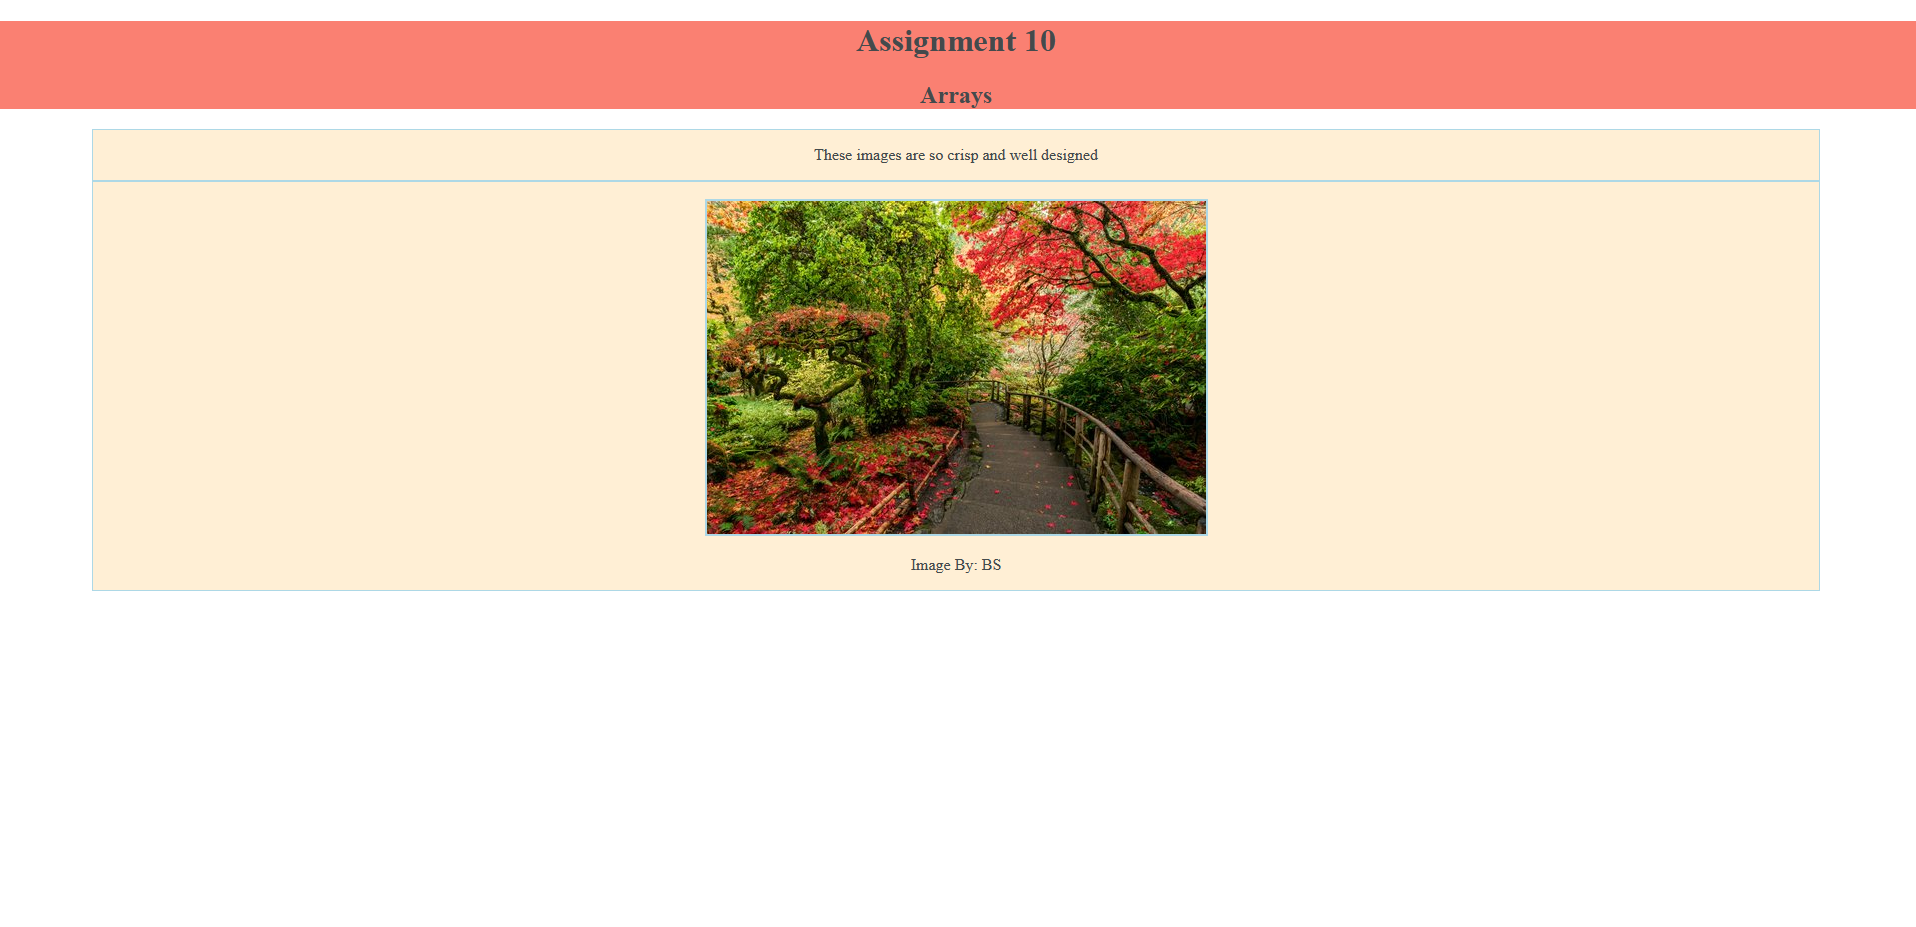
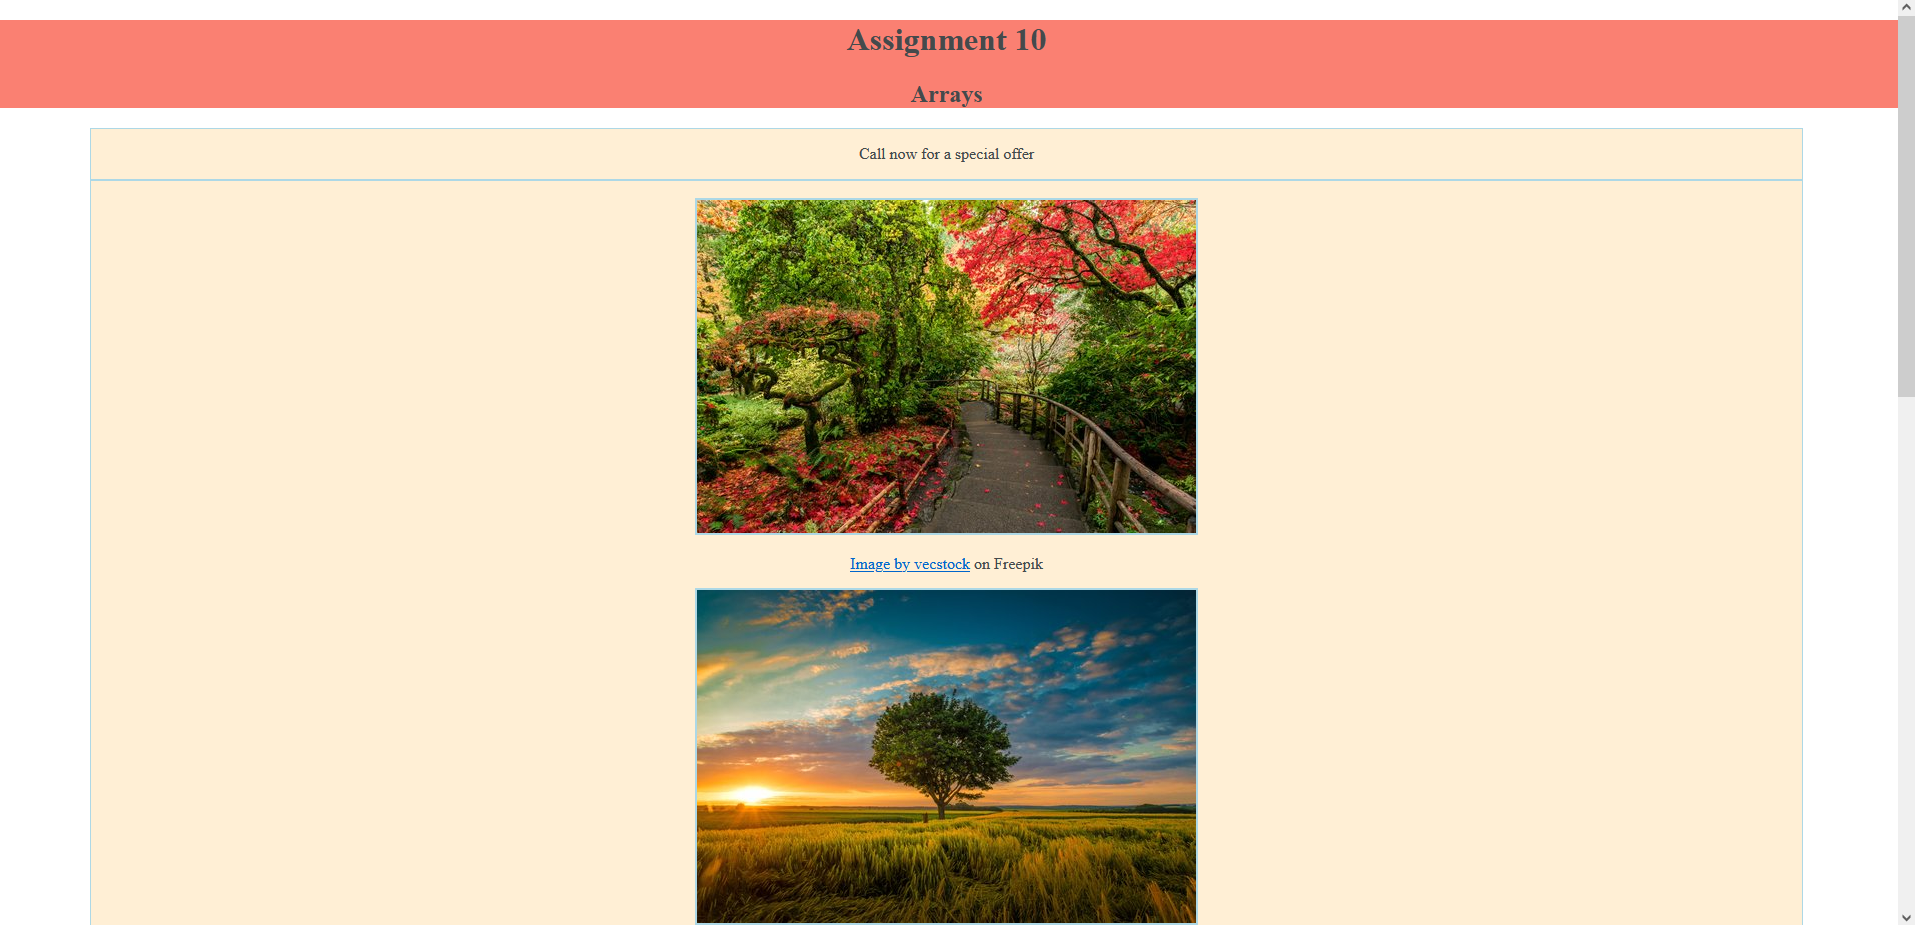
Assignment 10 Complete

diff --git a/assignments/assignment10/script.js b/assignments/assignment10/script.js
@@ -1,7 +1,15 @@
 var currentText = 0;
 var interval = 2000;
-var banner = [];
-var images = {};
+var banner = ["Look at these gorgeous images",
+                "Coming soon to a wall near you!",
+                "Call now for a special offer", 
+                "These images are so crisp and well designed",
+                "Look forward to a lot of this in the future"];
+var images = ["images/garden.jpg",
+                "images/golden.jpg",
+                "images/mountain-lake.jpg",
+                "images/small-house.jpg",
+                "images/snow.jpg"];
 
 const advertisement_text = () => {
     const text = document.getElementById("ads");
@@ -14,18 +22,37 @@ const advertisement_text = () => {
     return;
 }
 
+const images_and_attributions = () => {
+    const picsSection = document.getElementById("pictures");
+    for (let i = 0; i < images.length; i++) {
+        const image = document.createElement("img");
+        image.classList.add("image");
+        image.src = images[i];
+        const description = document.createElement("div");
+        if (i == 0) {
+            description.innerHTML = '<p> <a href="https://www.freepik.com/free-photo/painting-mountain-lake-with-mountain-background_40965130.htm#query=landscape&position=0&from_view=keyword&track=sph&uuid=8e520e53-3fb6-4e41-9da7-682c824a94f7">Image by vecstock</a> on Freepik</p>';
+        }
+        if (i == 1) {
+            description.innerHTML = '<p> <a href="https://www.freepik.com/free-photo/wide-angle-shot-single-tree-growing-clouded-sky-during-sunset-surrounded-by-grass_11342065.htm#query=landscape&position=7&from_view=keyword&track=sph&uuid=16f8afcf-90c6-4cae-8249-a03fef90c6f4">Image by wirestock</a> on Freepik</p>';
+        }
+        if (i == 2) {
+            description.innerHTML = '<p> <a href="https://www.freepik.com/free-photo/amazing-shot-beautiful-butchart-gardens-brentwood-bay_20496783.htm#query=landscape&position=27&from_view=keyword&track=sph&uuid=16f8afcf-90c6-4cae-8249-a03fef90c6f4">Image by wirestock</a> on Freepik</p>';
+        }
+        if (i == 3) {
+            description.innerHTML = '<p> <a href="https://www.freepik.com/free-photo/small-houses-green-field-with-dark-sky_7553929.htm#query=landscape&position=39&from_view=keyword&track=sph&uuid=16f8afcf-90c6-4cae-8249-a03fef90c6f4">Image by wirestock</a> on Freepik</p>';
+        }
+        if (i == 4) {
+            description.innerHTML = '<p> <a href="https://www.freepik.com/free-photo/beautiful-scenery-lot-leafless-trees-snow-covered-land-during-sunset_10990489.htm#query=landscape&position=38&from_view=keyword&track=sph&uuid=16f8afcf-90c6-4cae-8249-a03fef90c6f4">Image by wirestock</a> on Freepik</p>';
+        }
+        picsSection.appendChild(image);
+        picsSection.appendChild(description);
+    }
+}
+
 
 
 
 window.onload = () => {
-
-    banner.push("Look at these gorgeous images");
-    banner.push("Coming soon to a wall near you!");
-    banner.push("Call now for a special offer");
-    banner.push("These images are so crisp and well designed");
-    banner.push("Look forward to a lot of this in the future");
-
-    //images.push("images/garden.jpg")
-
     setInterval(advertisement_text, interval);
+    images_and_attributions();
 }

diff --git a/assignments/assignment10/index.html b/assignments/assignment10/index.html
@@ -13,13 +13,9 @@
         </header>
         <main>
             <section id="text">
-                <p id="ads"></p>
+                <p id="ads">Look forward to a lot of this in the future</p>
             </section>
             <section id="pictures">
-                <section id="current">
-                    <img class="image" src="images/garden.jpg">
-                    <p>Image By: BS</p>
-                </section>
             </section>
         </main>
 

diff --git a/script.js b/script.js
@@ -114,7 +114,7 @@ window.onload = () => {
     assignments.push(new Assignment(
         "Assignment 10 - Arrays", 
         "assignments/assignment10/index.html", 
-        "assignments10.png", 
+        "assignment10.png", 
         "This assignment is designed to show the use of arrays and interval functions"));
     /*assignments.push(new Assignment(
         "Assignment 10 - Classes", 
